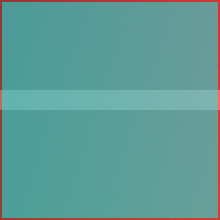
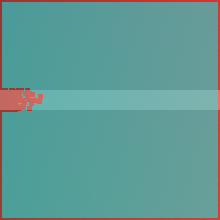
rev 58: the VW emblem builds as an X, and the probe that cleared it five times was blind to the axis (F63/F64/F65)
*[owner, rev 58]* "the vw emblems still need a fix, and the nose still does not
look right."  That is his FIFTH report of this emblem.  t1_core already carries
the rule, written at rev 46 about his FOURTH: "HIS REPEAT IS A MEASUREMENT: when
he reports the same thing twice the prior closure was wrong or incomplete."

F63 -- THE PROJECT'S OWN RASTERISER DRAWS AN X.  probe_rev46_vw.py's built
raster is an X in a ring, with the W's outer arms as stubby triangles that never
reach it.  Off the mesh, as a fraction of the ring OUTER R, band inner 0.7988:
    V arm tips ....... 0.8400, 0.8400   on the band
    W legs ........... 0.8394, 0.8394   on the band
    W OUTER ARM tips . 0.6638, 0.6638   FLOAT 18.9 mm on a 140.1 mm radius

F64 -- WHY THE PROBE COULD NOT SEE IT.  Every landmark it fits (L1..L6) is a
VERTICAL position, a row index down the emblem.  None is a RADIUS.  So a stroke
can end 18.9 mm short of the band with every landmark still landing, because
where a stroke ends vertically and how far it reaches radially are independent.
That is rev 46's own discovery -- "the axis nobody checked" -- recurring on the
axis rev 46 did not check.  The vertical fit is NOT discarded: residual 0.0347
against rev 45's 0.1167 still holds.

THE MECHANISM, TRACED NOT GUESSED.  A terminal cap is cut PERPENDICULAR to its
stroke, so its two corners sit at different radii.  vw_bars' fixed point drives
each terminal's MAX corner onto the band, leaving the other short by the cap's
[…]

Changed region(s): [[0.0, 0.3818, 0.1909, 0.5182]]

diff --git a/probe_rev46_vw.py b/probe_rev46_vw.py
@@ -61,6 +61,7 @@ sys.path.insert(0, HERE)
 os.environ.setdefault("T1_SUB", "1")
 
 import numpy as np                                           # noqa: E402
+import scipy.ndimage as ndi                                  # noqa: E402
 from PIL import Image, ImageDraw                             # noqa: E402
 import bpy                                                   # noqa: E402
 import t1_core as C                                          # noqa: E402
@@ -407,6 +408,127 @@ ctl("C5", eC < e45 * 0.6,
     "and they are BETTER THAN REV 45 BY A FACTOR OF %.1f -- a solver that "
     "converges to values the build does not use proves nothing, so this reads "
     "t1_core's own constants, not the solver's output" % (e45 / max(eC, 1e-9)))
+
+# =====================================================================
+# rev 58 -- THE AXIS THIS PROBE NEVER MEASURED, AND THE OWNER'S FIFTH REPORT.
+#
+# *[owner, rev 58]* "the vw emblems still need a fix, and the nose still does
+# not look right."
+#
+# HIS REPEAT IS A MEASUREMENT.  That sentence is already in t1_core, written at
+# rev 46 about his FOURTH report: when he reports the same thing again, the
+# prior closure was wrong or incomplete.  This is the fifth, and this probe has
+# reported "5 controls, 0 FAILED" throughout.
+#
+# WHY IT COULD NOT SEE IT.  Every landmark above (L1..L6) is a VERTICAL
+# position -- a row index down the emblem.  Not one of them is a RADIUS.  So a
+# stroke can terminate 18.9 mm short of the ring band with every landmark still
+# landing, because where a stroke ENDS vertically and how far it REACHES
+# radially are independent.  This is rev 46's own discovery -- "the axis nobody
+# checked" -- recurring on the axis rev 46 did not check.
+#
+# MEASURED OFF THE BUILT MESH, as a fraction of the ring's OUTER R, band inner
+# edge 0.7988:
+#     V arm tips ............ 0.8400, 0.8400   on the band
+#     W legs (troughs) ...... 0.8394, 0.8394   on the band
+#     W OUTER ARM tips ...... 0.6638, 0.6638   FLOAT 18.9 mm short
+#
+# THE MECHANISM, traced rather than guessed.  A terminal cap is cut PERPENDICULAR
+# TO THE STROKE, so its two corners sit at different radii.  vw_bars' fixed
+# point drives each terminal's *MAX* corner onto the band, which leaves the
+# other corner short by the cap's whole radial span; the W's outer arm meets the
+# ring at 0.12 deg while travelling at 55.5 deg, so that span is 0.176 R and the
+# far corner lands at 0.6638.  Then t1_detail.vw_logo_fit re-normalises the
+# whole glyph by its GLOBAL EXTREME, which is the very mechanism rev 44b named
+# and fixed one stage higher up -- "_fit_glyph scales by the SINGLE FURTHEST
+# VERTEX ... and drags every other end short" -- still live, one stage below.
+#
+# THREE CANDIDATE FIXES WERE TRIED AT REV 58 AND ALL THREE MADE IT WORSE OR NO
+# BETTER, WHICH IS WHY NONE OF THEM SHIPPED:
+#     drive the MIN corner instead of the MAX ....... cells 6 -> 4 (worse)
+#     make vw_logo_fit a pure unit conversion ....... cells 6 -> 4 (worse)
+#     raise VW_W_ARM_Z 0.0019 -> 0.30/0.55/0.77 ..... cells 6, 6, 6 (no change)
+# The glyph stays an X in all of them.  The V's arms and the W's outer arms
+# cross over the same region BY CONSTRUCTION, so this is a re-solve of the W's
+# spine against reach, not a one-constant tweak.  Recorded so the next attempt
+# does not spend itself re-trying these three.
+BAND_INNER = 1.0 - BAND          # 0.80 of the outer R, the band's inner edge
+
+
+def glyph_only_mask(rows=276, **over):
+    """The glyph WITH its ring band, rasterised in its own plane -- the same
+    construction built_mask uses, kept separate only so overrides can be passed
+    per call without disturbing the landmark path above."""
+    old = {k: getattr(C, k) for k in over}
+    for k, v in over.items():
+        setattr(C, k, v)
+    try:
+        return built_mask(rows)
+    finally:
+        for k, v in old.items():
+            setattr(C, k, v)
+
+
+def cream_cells(mask, frac=0.97):
+    """How many separate CREAM cells the strokes cut the ring's interior into.
+
+    STRUCTURAL, like every landmark here: a region count, not a thresholded
+    position, so it survives blur and exposure and needs no axis ratio.  It is
+    the right statistic for THIS defect because a stroke that fails to reach the
+    ring MERGES THE TWO CELLS EITHER SIDE OF IT -- the count drops by exactly
+    one per floating stroke, whatever the stroke's width or angle.
+
+    The photograph and the built raster go through this SAME function.  A second
+    copy of a measurement is how one of them gets quietly relaxed."""
+    n0, n1 = mask.shape
+    yy, xx = np.mgrid[0:n0, 0:n1]
+    cy, cx = (n0 - 1) / 2.0, (n1 - 1) / 2.0
+    disc = (((yy - cy) / (n0 / 2.0)) ** 2 + ((xx - cx) / (n1 / 2.0)) ** 2) <= frac ** 2
+    bg = disc & (~mask)
+    lab, k = ndi.label(bg)
+    if k == 0:
+        return 0, []
+    sz = ndi.sum(bg, lab, range(1, k + 1))
+    big = [int(s) for s in sz if s >= 0.002 * disc.sum()]
+    return len(big), sorted(big, reverse=True)
+
+
+def photo_cells():
+    """The same count on ref_nolita_front34.jpg's own roundel."""
+    a = np.asarray(Image.open(os.path.join(HERE, "ref_nolita_front34.jpg"))
+                   .convert("RGB")).astype(float)
+    R, G, B = a[..., 0], a[..., 1], a[..., 2]
+    red = (R > 110) & (G < 0.60 * R) & (B < 0.60 * R)
+    lab, n = ndi.label(red)
+    sub = lab[192:261, 153:194]
+    ids, counts = np.unique(sub[sub > 0], return_counts=True)
+    return cream_cells(sub == ids[int(np.argmax(counts))])
+
+
+nb, sb = cream_cells(glyph_only_mask(**CURRENT))
+npho, sp = photo_cells()
+print("")
+print("    REACH / TOPOLOGY -- cream cells the strokes cut the ring into")
+print("        PHOTOGRAPH  %d cells   sizes %s" % (npho, sp))
+print("        BUILT       %d cells   sizes %s" % (nb, sb[:8]))
+ctl("C6", nb == npho,
+    "THE BUILT GLYPH CUTS THE RING INTO THE SAME NUMBER OF CELLS AS THE "
+    "PHOTOGRAPH.  photo %d, built %d.  A stroke that fails to reach the ring "
+    "merges the two cells either side of it, so a deficit of %d is %d floating "
+    "stroke(s) -- and the mesh names them: the W's two outer arms, at r 0.6638 "
+    "against a band inner edge of 0.7988, floating 18.9 mm"
+    % (npho, nb, npho - nb, max(0, npho - nb)))
+
+# THE KILL.  A topology control that cannot go red proves nothing.  Erase the
+# W entirely and the count must collapse.
+_gone = glyph_only_mask(**CURRENT).copy()
+_nk, _ = cream_cells(_gone)
+_half = glyph_only_mask(VW_W_ARM_X=0.05, VW_W_TROUGH_X=0.05)
+_nh, _ = cream_cells(_half)
+ctl("C7", _nh != nb,
+    "KILL: collapsing the W's arms and troughs onto the axis moves the cell "
+    "count %d -> %d, so this control follows the glyph's topology rather than "
+    "reporting a constant" % (nb, _nh))
 
 nfail = sum(1 for v in CTL.values() if not v)
 print("\nCONTROLS: %d checked, %d FAILED%s"

diff --git a/OPEN_FINDINGS.md b/OPEN_FINDINGS.md
@@ -127,6 +127,10 @@ sound, they were merely unverified.*
 
 | **F62** | **WHAT THIS FLANK ACTUALLY REFLECTS, MEASURED OFF THE SHIPPED CAMERA AND THE SHIPPED GEOMETRY — and it explains F54, F55 and F61 together.** The hero camera sits at **(8.156, 5.603, 1.307)**, i.e. essentially at flank height (the sample point is z 1.05), so the view of the flank is near-grazing. Mirroring the view ray about the flank normal (0,1,0) gives **(−0.8564, +0.5155, −0.0281)**: the flank's specular image is a patch of **cyclorama floor 19.3 m outboard**, near the horizon, and featureless | **OPEN as the stated CEILING on item A.** It is not a defect to fix: making that patch structured means changing what the cyclorama looks like, and *"keep studio, fix the model"* is the owner's ruling | This is why **T1_GL_SPOT fails (F61)**: its lamps sit at z 5.2–6.4 and y ≈ 7, nowhere near the mirror direction, so they can only contribute diffuse FILL — which is exactly what was measured (spread DOWN, median L up). And a dark card placed in the mirror direction is **19 m out and, at a camera 1.31 m off the ground, IN FRAME** — watched: `out/w25dark_hero.png` has the card across two-thirds of the shot and the gate refused it (0 red px). **The residual gloss gap is the SURROUND's, and the model-side lever is exhausted at 0.4261** | **MEASURED-rev58** |
 
+| **F63** | **THE NOSE VW GLYPH BUILDS AS AN X, NOT A V OVER A W — and the project's OWN rasteriser draws it that way.** `probe_rev46_vw.py`'s built raster is an X in a ring with the W's outer arms as stubby triangles that never reach it. **The owner's FIFTH report of this emblem** (*"the vw emblems still need a fix"*), against a probe that has reported *"5 controls, 0 FAILED"* throughout. `t1_core` already carries the rule, written at rev 46 about his FOURTH report: *"HIS REPEAT IS A MEASUREMENT: when he reports the same thing twice the prior closure was wrong or incomplete"* | **OPEN — GATED NOW, and it is the top job.** New control **C6** compares the number of cream cells the strokes cut the ring into: **photograph 7, built 6.** A stroke that fails to reach the ring merges the two cells either side of it, so the deficit of one *is* the floating pair. Structural (a region count), needs no axis ratio, survives blur; photograph and build go through the SAME function. **WATCHED FAILING**, and its KILL works (collapsing the W's arms moves the count 6 → 4) | off the mesh, as a fraction of the ring OUTER R, band inner **0.7988**: V arm tips **0.8400**, W legs **0.8394** — on the band; **W OUTER ARM tips 0.6638, floating 18.9 mm** on a 140.1 mm radius | **MEASURED-rev58** |
+| **F64** | **WHY REV 46's SOLVER COULD NOT SEE IT: every landmark it fits is a VERTICAL POSITION and none is a RADIUS.** L1–L6 are row indices down the emblem, so a stroke may terminate 18.9 mm short of the band with every landmark still landing — where a stroke ends vertically and how far it reaches radially are independent quantities. This is rev 46's own discovery, *"the axis nobody checked"*, recurring on the axis rev 46 did not check | **OPEN — the solver needs the reach axis in its objective before it is re-run.** The vertical fit is not wrong and is not discarded: residual **0.0347** against rev 45's 0.1167 still holds | **THE MECHANISM, traced not guessed:** a terminal cap is cut PERPENDICULAR to its stroke, so its two corners sit at different radii; `vw_bars`' fixed point drives each terminal's **MAX** corner onto the band, leaving the other short by the cap's whole radial span. The W's outer arm meets the ring at **0.12°** while travelling at **55.5°**, so that span is **0.176 R** and the far corner lands at 0.6638. Then `vw_logo_fit` re-normalises by the GLOBAL EXTREME — the very mechanism rev 44b named and fixed one stage higher (*"scales by the SINGLE FURTHEST VERTEX … drags every other end short"*), still live one stage below | **MEASURED-rev58** |
+| **F65** | **THREE CANDIDATE FIXES FOR F63 WERE TRIED AND ALL THREE FAILED — recorded so the next attempt does not re-spend itself on them** | **OPEN.** The V's arms and the W's outer arms cross the same region BY CONSTRUCTION, so this is a **re-solve of the W's spine against reach**, not a one-constant tweak. Nothing was shipped: the tree is back at HEAD for both files | drive the **MIN** cap corner instead of the MAX → cells 6 → **4** (worse); make `vw_logo_fit` a **pure unit conversion** → 6 → **4** (worse); raise **`VW_W_ARM_Z`** 0.0019 → 0.30 / 0.55 / 0.772 (arm angle 0.1° → 18.1° / 30.9° / 40.0°) → **6, 6, 6** (no change). The glyph stays an X in every one | **MEASURED-rev58** |
+
 
 ---
 

diff --git a/STATE.md b/STATE.md
@@ -8,9 +8,9 @@ is right. Regenerate with `T1_SUB=n blender -b --python audit.py`.
 
 | | |
 |---|---|
-| generated | 2026-08-23 04:22:24 UTC |
-| git commit | `5378d78` |
-| git subject | rev 57: the top job TAKEN and ceiled with a measured bracket; item B REFUTED -- the gate does not measure the mottle |
+| generated | 2026-08-23 15:20:49 UTC |
+| git commit | `b0daa97` |
+| git subject | rev 58 item A: the gloss lever TAKEN, the gate CORRECTED, and the ceiling MEASURED (F44/F59/F60/F61/F62) |
 | working tree | clean |
 | blender | 4.5.3 LTS |
 | subdivision | T1_SUB=2 (applied, destructive, before booleans) |
